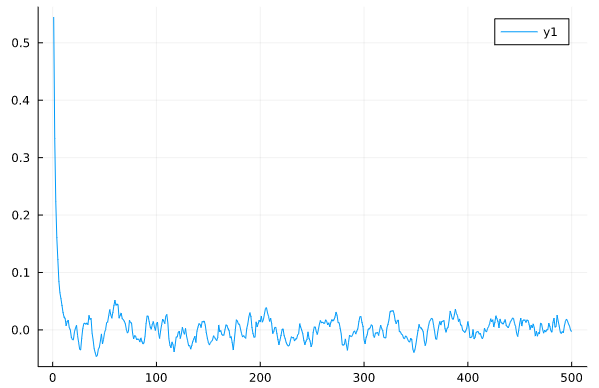
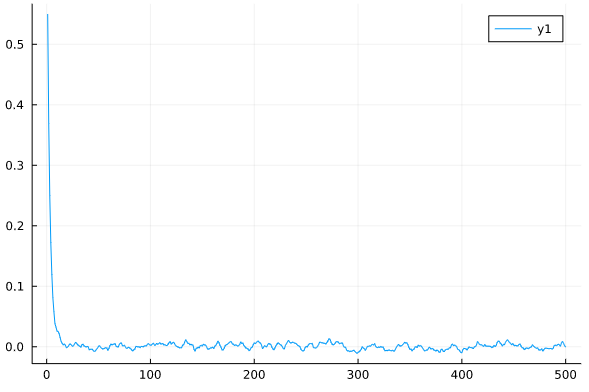
Update docs

Changed region(s): [[0.0, 0.0309, 0.9779, 0.9897], [0.8251, 0.0309, 0.9779, 0.1237]]

diff --git a/docs/src/modelling.md b/docs/src/modelling.md
@@ -31,11 +31,11 @@ There's a lot going on here, so let's break it down.
 
 The `Priors` block accepts the priors that you would like for the orbital parameters of this planet. Priors can be any univariate distribution from the Distributions.jl package.
 You will want to always specify the following parameters:
-* `a`: Semi-major axis in astronomical units (AU)
-* `i`: Inclination in radians
+* `a`: Semi-major axis, astronomical units (AU)
+* `i`: Inclination, radius
 * `e`: Eccentricity in the range [0, 1)
-* `τ`: Epoch of periastron passage, in fraction of orbit \[0,1]
-* `ω`: Argument of periastron
+* `τ`: Epoch of periastron passage, in fraction of orbit \[0,1] (periodic outside these bounds)
+* `ω`: Argument of periastron, radius
 * `Ω`: Longitude of the ascending node, radians.
 
 The parameter τ represents the epoch of periastron passage as a fraction of the planet's orbit between 0 and 1. This follows the same convention as Orbitize! and you can read more about their choice in ther FAQ.
@@ -43,16 +43,6 @@ The parameter τ represents the epoch of periastron passage as a fraction of the
 The parameters can be specified in any order.
 
 The `Astrometry` block is optional. This is where you can list the position of a planet at different epochs if it known. `epoch` is a modified Julian date that the observation was taken. the `ra`, `dec`, `σ_ra`, and `σ_dec` parameters are the position of the planet at that epoch, relative to the star. All values in milliarcseconds (mas).
-
-
-### Valid priors
-Internally, the domains of several parameters are re-mapped to improve sampling. This means that your priors must obey the following criteria:
-* `τ` must be restricted to (0,1)
-* `e` must be restricted to (0,1)
-* `a` must be restricted to (0, Inf)
-* `μ` must be restricted to (0, Inf)
-* `plx` must be restricted to (0, Inf)
-
 
 
 ## Creating a system
@@ -87,7 +77,7 @@ chains, stats = DirectDetections.hmc(
     HD82134;
     burnin=3_000,
     numwalkers=1,
-    numsamples_perwalker=10_000
+    numsamples_perwalker=100_000
 );
 ```
 
@@ -100,21 +90,21 @@ You will get an output that looks something like with a progress bar that update
 │   a =
 │    1-element Vector{Float64}:
 └     0.8654035807041643
-Sampling100%|███████████████████████████████| Time: 0:00:28
-  iterations:                    10000
+Sampling100%|███████████████████████████████| Time: 0:03:43
+  iterations:                    100000
   n_steps:                       127
   is_accept:                     true
-  acceptance_rate:               0.8180374343838878
-  log_density:                   -23.143935219558447
-  hamiltonian_energy:            26.11485114016116
-  hamiltonian_energy_error:      -0.018896367693340466
-  max_hamiltonian_energy_error:  0.48247553326913106
+  acceptance_rate:               0.7433785597405826
+  log_density:                   -22.227228640579845
+  hamiltonian_energy:            28.28412166672831
+  hamiltonian_energy_error:      0.4320257855228391
+  max_hamiltonian_energy_error:  0.864362638326071
   tree_depth:                    7
   numerical_error:               false
-  step_size:                     0.016869744021891637
-  nom_step_size:                 0.016869744021891637
+  step_size:                     0.016545736995705284
+  nom_step_size:                 0.016545736995705284
   is_adapt:                      false
-  mass_matrix:                   DenseEuclideanMetric(diag=[0.00011095386901753932, 0. ...])
+  mass_matrix:                   DenseEuclideanMetric(diag=[0.00010561557446916532, 0. ...])
 ```
 
 The sampler will begin by drawing orbits randomly from the priors (100,000 by default). It will then pick the orbit with the highest posterior density as a starting point for HMC adaptation. This recipe is a good way to find a point somewhat close to the typical set. Starting at the global maximum on the other hand, has at times not led to good sampling.
@@ -145,19 +135,25 @@ maximum(getproperty.(stats[1], :tree_depth))
 
 You can make a trace plot:
 ```julia
-plot(chains[1].planets[1].a)
+plot(
+    chains[1].planets[1].a,
+    xlabel="iteration",
+    ylabel="semi-major axis (aU)")
+)
 ```
-![trace plot](./assets/astrometry-trace-plot.png)
+![trace plot](assets/astrometry-trace-plot.png)
 
 And an auto-correlation plot:
 ```julia
 using StatsBase
 plot(
-    autocor(chains[1].planets[1].e, 1:500)
+    autocor(chains[1].planets[1].e, 1:500),
+    xlabel="lag",
+    ylabel="autocorrelation",
 )
 ```
 This plot shows that these samples are not correlated after only above 5 steps. No thinning is necessary.
-![autocorrelation plot](./assets/astrometry-autocor-plot.png)
+![autocorrelation plot](assets/astrometry-autocor-plot.png)
 
 It's recommened that you run multiple chains for more steps to verify converge of your final results.
 
@@ -169,7 +165,31 @@ using Plots
 plotmodel(chains[1], HD82134)
 ```
 This function draws orbits from the posterior and displays them in a plot. Any astrometry points are overplotted. If other data like astrometric acceleration is provided, additional panels will appear.
-![model plot](./assets/astrometry-model-plot.png)
+![model plot](assets/astrometry-model-plot.png)
+
+
+## Pair Plot
+A very useful visualization of our results is a pair-plot, or corner plot. We can use our PairPlots.jl package for this purpose:
+```julia
+using Plots, PairPlots
+
+
+table = (;
+    a=chains[1].planets[1].a,
+    e=chains[1].planets[1].e,
+    i=rad2deg.(chains[1].planets[1].i),
+    Ω=rad2deg.(chains[1].planets[1].Ω),
+    ω=rad2deg.(chains[1].planets[1].ω),
+    τ=(chains[1].planets[1].τ),
+);
+labels=["a", "e", "i", "\\Omega", "\\omega", "\\tau"]
+units = ["(au)", "", "(\\degree)", "(\\degree)", "(\\degree)", ""]
+
+corner(table, labels, units, plotscatter=false)
+```
+You can read more about the syntax for creating pair plots in the PairPlots.jl documentation page.
+![corner plot](assets/astrometry-corner-plot.png)
+In this case, the sampler was able to resolve the multi-modal posterior resulting from the interplay between the longitude of the ascending node, argument of periapsis, and epoch of periastron passage.
 
 ## Notes on Hamiltonian Monte Carlo
 Traditional Affine Invariant MCMC is supported (similar to the python `emcee` package), but it is recommended that you use Hamiltonian Monte Carlo. This sampling method makes use of derivative information, and is much more efficient. This package by default uses the No U-Turn sampler, as implemented in AdvancedHMC.jl.
